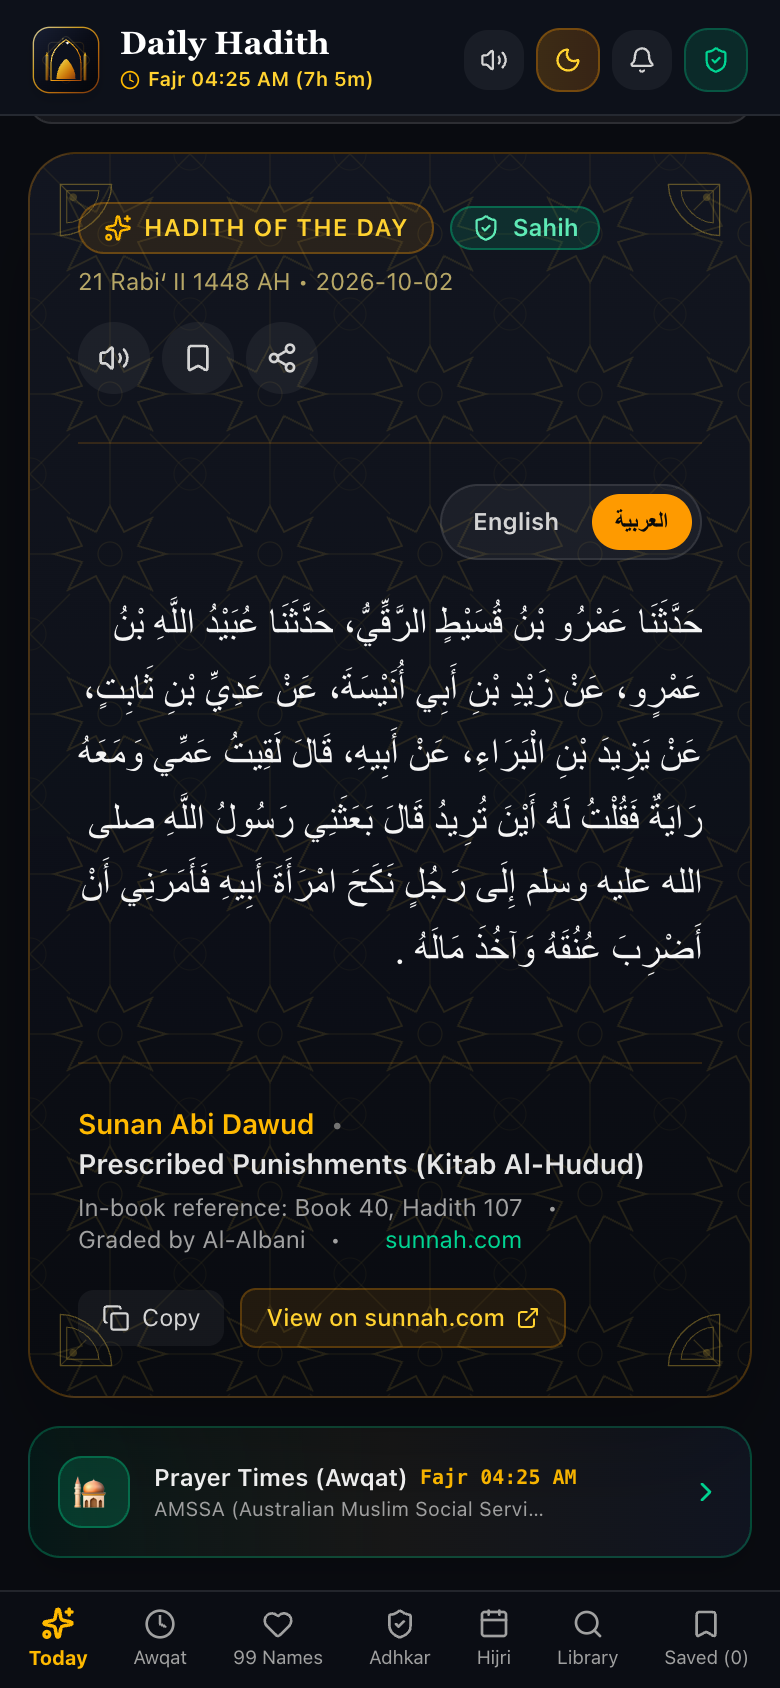
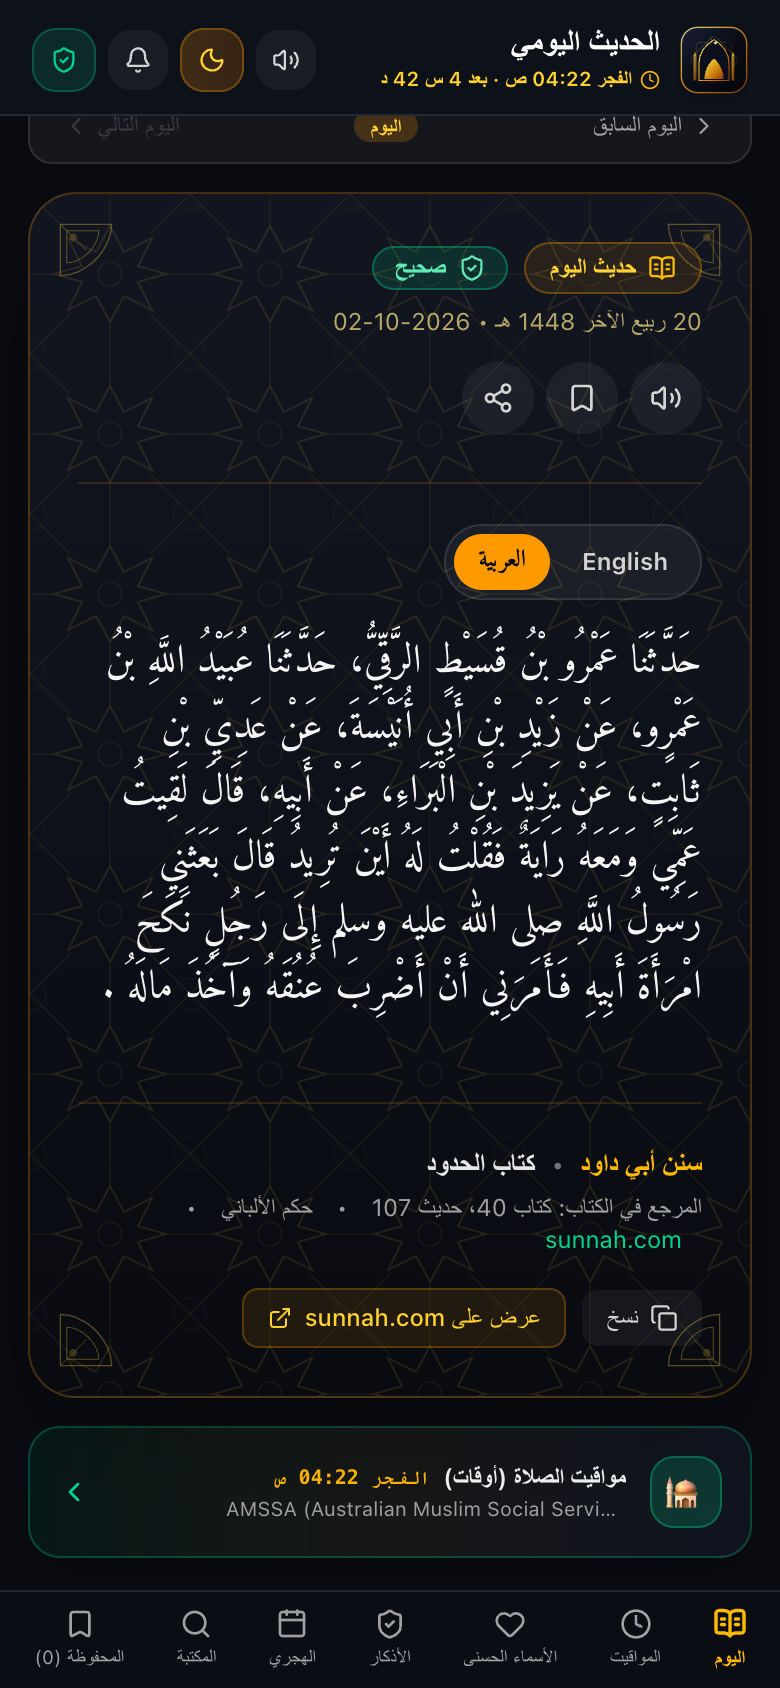
Fix bugs: DST countdown, stale Hijri label, du'a speech, Arabic name search
- Next-prayer and Suhoor countdowns were an hour off on the nights the
  clocks change; they now measure real time.
- The phone's Hijri date kept the old mosque's offset after changing mosque;
  it is now computed fresh (Today card, screensaver, archive).
- Du'a reading got stuck on 'playing' if the Arabic voice failed, and read
  the English translation too in the Arabic interface.
- 99 Names: Arabic search ignores vowel marks (الرحمن finds الرَّحْمَنُ).
- Cache Intl formatters used every second for prayer times.

diff --git a/src/shared/utils/prayerTimes.ts b/src/shared/utils/prayerTimes.ts
@@ -143,19 +143,26 @@ interface ZonedClock {
  * Wall-clock time in the mosque's own time zone (falls back to the device
  * time zone for custom mosques outside the known Australian states).
  */
+const clockFormatters = new Map<string, Intl.DateTimeFormat>();
+
 function getZonedClock(date: Date, timeZone?: string): ZonedClock {
   if (timeZone) {
     try {
-      const parts = new Intl.DateTimeFormat('en-US', {
-        timeZone,
-        hourCycle: 'h23',
-        year: 'numeric',
-        month: 'numeric',
-        day: 'numeric',
-        hour: 'numeric',
-        minute: 'numeric',
-        second: 'numeric'
-      }).formatToParts(date);
+      let formatter = clockFormatters.get(timeZone);
+      if (!formatter) {
+        formatter = new Intl.DateTimeFormat('en-US', {
+          timeZone,
+          hourCycle: 'h23',
+          year: 'numeric',
+          month: 'numeric',
+          day: 'numeric',
+          hour: 'numeric',
+          minute: 'numeric',
+          second: 'numeric'
+        });
+        clockFormatters.set(timeZone, formatter);
+      }
+      const parts = formatter.formatToParts(date);
       const get = (type: string) => Number(parts.find(p => p.type === type)?.value);
       const clock = {
         year: get('year'),
@@ -325,6 +332,14 @@ export function calculateMosquePrayerTimes(
     { name: 'Isha' as const, mins: iObj.totalMinutes, time: iObj.formatted, iqama: iqamaFor.Isha }
   ];
 
+  // Wall-clock gaps are off by an hour when the clocks change in between (the
+  // night daylight saving starts or ends); measure the real time instead
+  const realSeconds = (wallSeconds: number): number => {
+    if (!timeZone) return wallSeconds;
+    const later = getZonedClock(new Date(date.getTime() + wallSeconds * 1000), timeZone);
+    return Math.max(0, wallSeconds - Math.round((later.offsetHours - clock.offsetHours) * 3600));
+  };
+
   let next = schedule.find(p => p.mins > currentMinutes);
   let currentPrayerName = 'Isha';
   let diffSec = 0;
@@ -338,6 +353,7 @@ export function calculateMosquePrayerTimes(
     diffSec = Math.round((1440 - currentMinutes + next.mins) * 60);
     currentPrayerName = 'Isha';
   }
+  diffSec = realSeconds(diffSec);
 
   const remHours = Math.floor(diffSec / 3600);
   const remMins = Math.floor((diffSec % 3600) / 60);
@@ -372,6 +388,7 @@ export function calculateMosquePrayerTimes(
   const fastDay = new Date(clock.year, clock.month - 1, clock.day + (currentMinutes >= mObj.totalMinutes ? 1 : 0));
   const isRamadan = getHijriDate(fastDay).month === 'Ramadan';
 
+  fastDiffSec = realSeconds(fastDiffSec);
   const fHours = Math.floor(fastDiffSec / 3600);
   const fMins = Math.floor((fastDiffSec % 3600) / 60);
   const fSecs = fastDiffSec % 60;

diff --git a/src/shared/utils/awqat.ts b/src/shared/utils/awqat.ts
@@ -60,16 +60,23 @@ export function getAwqatPage(mosqueId: string): string | null {
 }
 
 /** Offset of `timeZone` from UTC in minutes at the given instant */
+const zoneFormatters = new Map<string, Intl.DateTimeFormat>();
+
 function zoneOffsetMinutes(instant: number, timeZone: string): number {
-  const parts = new Intl.DateTimeFormat('en-US', {
-    timeZone,
-    hourCycle: 'h23',
-    year: 'numeric',
-    month: 'numeric',
-    day: 'numeric',
-    hour: 'numeric',
-    minute: 'numeric'
-  }).formatToParts(new Date(instant));
+  let formatter = zoneFormatters.get(timeZone);
+  if (!formatter) {
+    formatter = new Intl.DateTimeFormat('en-US', {
+      timeZone,
+      hourCycle: 'h23',
+      year: 'numeric',
+      month: 'numeric',
+      day: 'numeric',
+      hour: 'numeric',
+      minute: 'numeric'
+    });
+    zoneFormatters.set(timeZone, formatter);
+  }
+  const parts = formatter.formatToParts(new Date(instant));
   const get = (type: string) => Number(parts.find((p) => p.type === type)?.value);
   return Math.round((Date.UTC(get('year'), get('month') - 1, get('day'), get('hour') % 24, get('minute')) - instant) / 60000);
 }

diff --git a/src/shared/components/HistoryBrowser.tsx b/src/shared/components/HistoryBrowser.tsx
@@ -4,6 +4,7 @@ import { loadDailyHadithOrBundled, describeHadith } from '../utils/hadithLibrary
 import { GradeBadge } from './GradeBadge';
 import { useDisplayedHadith } from '../hooks/useHadithLanguage';
 import { useI18n } from '../i18n';
+import { getHijriDate } from '../utils/hijri';
 import { Calendar, ChevronRight, ChevronLeft, BookOpen, Clock, Sparkles } from 'lucide-react';
 
 interface HistoryBrowserProps {
@@ -129,7 +130,7 @@ const HistoryCard: React.FC<HistoryCardProps> = ({ item, daysAgo, isToday, onSel
           )}
           <span className="text-xs text-neutral-300 font-medium">{displayDate}</span>
         </div>
-        <span className="text-[11px] text-amber-300/80 font-sans">{i18n.hijri(item.hijriDate)}</span>
+        <span className="text-[11px] text-amber-300/80 font-sans">{i18n.hijri(getHijriDate(new Date(item.dateString + 'T00:00:00')).formatted)}</span>
       </div>
 
       {hadith.narrator && <div className="text-xs font-sans font-medium text-amber-400/90 truncate">{hadith.narrator}</div>}

diff --git a/src/shared/components/NamesOfAllahView.tsx b/src/shared/components/NamesOfAllahView.tsx
@@ -80,14 +80,16 @@ export const NamesOfAllahView: React.FC = () => {
     } catch {}
   };
 
+  // Arabic is matched without vowel marks, so "الرحمن" finds "الرَّحْمَنُ"
+  const plainArabic = (text: string) => text.replace(/[\u064B-\u065F\u0670\u0640]/g, '').replace(/[أإآٱ]/g, 'ا');
   const filteredNames = (namesData as NameOfAllah[]).filter((n) => {
     if (!searchQuery.trim()) return true;
-    const q = searchQuery.toLowerCase();
+    const q = searchQuery.toLowerCase().trim();
     return (
       n.transliteration.toLowerCase().includes(q) ||
       n.meaning.toLowerCase().includes(q) ||
       n.explanation.toLowerCase().includes(q) ||
-      n.arabic.includes(q) ||
+      plainArabic(n.arabic).includes(plainArabic(q)) ||
       String(n.id) === q
     );
   });

diff --git a/src/shared/utils/speech.ts b/src/shared/utils/speech.ts
@@ -1,3 +1,4 @@
+import { getHadithLanguage } from '../hooks/useHadithLanguage';
 /**
  * Calm and dignified speech synthesis helper for reading Hadith text.
  */
@@ -84,9 +85,16 @@ export function speakDua(
       if (onStart) onStart();
     };
 
-    arUtterance.onend = () => {
-      window.speechSynthesis.speak(enUtterance);
+    const finish = () => {
+      currentUtterance = null;
+      if (onEnd) onEnd();
     };
+    // In the Arabic interface the Arabic is enough; otherwise the English follows
+    arUtterance.onend = () => {
+      if (getHadithLanguage() === 'ar' || !englishTranslation.trim()) finish();
+      else window.speechSynthesis.speak(enUtterance);
+    };
+    arUtterance.onerror = finish;
 
     enUtterance.onend = () => {
       currentUtterance = null;

diff --git a/src/mobile/MobileApp.tsx b/src/mobile/MobileApp.tsx
@@ -5,6 +5,7 @@ import { ScreensaverView } from '../shared/components/ScreensaverView';
 import { AutoAzanHost } from '../shared/components/AutoAzanHost';
 import { useDailyReminder } from '../shared/hooks/useDailyReminder';
 import { useDocumentLanguage } from '../shared/i18n';
+import { getHijriDate } from '../shared/utils/hijri';
 
 export function MobileApp() {
   const [isScreensaverOpen, setIsScreensaverOpen] = useState(false);
@@ -21,7 +22,7 @@ export function MobileApp() {
       {isScreensaverOpen && today && (
         <ScreensaverView
           hadith={today.hadith}
-          hijriDate={today.hijriDate}
+          hijriDate={getHijriDate(new Date()).formatted}
           onClose={() => setIsScreensaverOpen(false)}
         />
       )}

diff --git a/src/shared/components/MobileAppShell.tsx b/src/shared/components/MobileAppShell.tsx
@@ -305,7 +305,7 @@ export const MobileAppShell: React.FC<MobileAppShellProps> = ({
                 isFav={isFav}
                 onToggleFav={() => handleToggleFavorite(displayedHadith)}
                 dateLabel={currentDailySelection?.dateString ?? formatDateKey(selectedDate)}
-                hijriDate={currentDailySelection?.hijriDate ?? getHijriDate(selectedDate).formatted}
+                hijriDate={getHijriDate(selectedDate).formatted /* fresh: follows the selected mosque's Awqat offset */}
                 onOpenScreensaver={onOpenScreensaver}
               />
             ) : (
